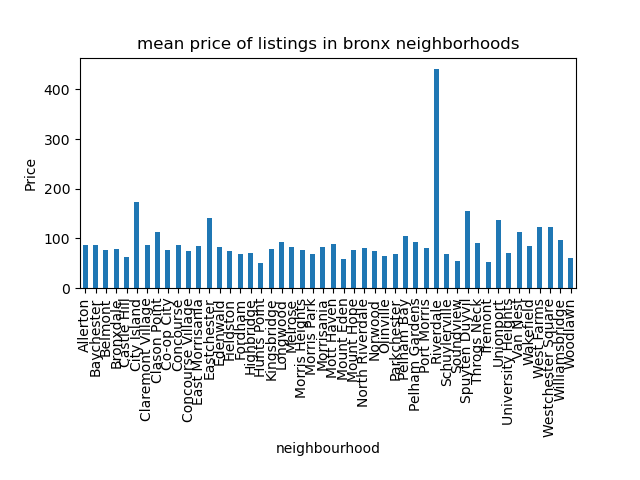
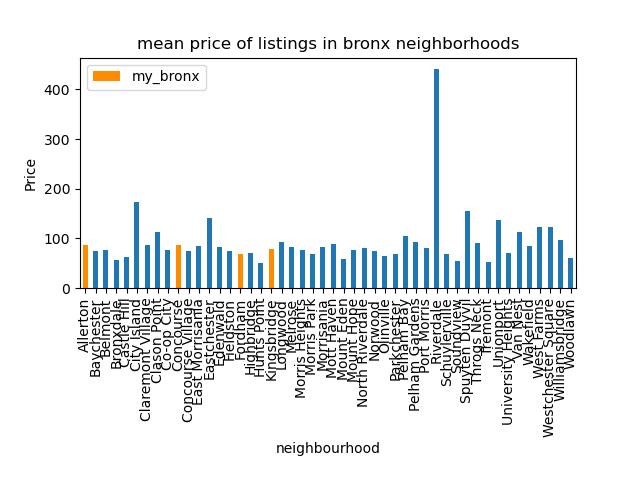
updates; bar colors and printing price stats for rooms

diff --git a/ha_8.py b/ha_8.py
@@ -13,13 +13,11 @@ airbnb.drop(['host_id','host_name'], axis=1, inplace=True)
 #Group by borough
 boro_group = airbnb.groupby(['neighbourhood_group'])
 bronx = airbnb[airbnb['neighbourhood_group'] == 'Bronx']
+bronx_neighborhoods = bronx.groupby(['neighbourhood'])
 
-#group our neighborhoods
+#Group by our neighborhoods
 my_bronx = bronx[bronx['neighbourhood'].isin(['Fordham', 'Allerton', 'Kingsbridge', 'Concourse'])]
-kingsbridge = airbnb[airbnb['neighbourhood'] == 'Kingsbridge']
-allerton = airbnb[airbnb['neighbourhood'] == 'Allerton']
-concourse = airbnb[airbnb['neighbourhood'] == 'Concourse']
-fordham = airbnb[airbnb['neighbourhood'] == 'Fordham']
+mybronx_neighborhoods = my_bronx.groupby(['neighbourhood'])  #In our bronx neighborhoods
 
 
 #PRINTING STATS FOR LISTINGS/PRICE
@@ -57,26 +55,37 @@ plt.gcf().subplots_adjust(bottom=0.3)
 plt.title('mean price of listings in all boroughs')
 fig1 = plt.gcf()
 fig1.savefig('meanPriceBoroughs.png')
-plt.show()
+plt.clf()
 
 #BRONX
-bronx_neighborhoods = bronx.groupby(['neighbourhood'])  #In all Bronx neighborhoods
-bronx_neighborhoods['price'].mean().plot.bar()
+#make my_bronx neighborhoods stand out
+hoods_index = list(bronx['neighbourhood'].unique())
+hoods_index.sort()
+hoods_colors = list()
+for i in hoods_index:
+    if ((i == "Allerton") or (i == "Kingsbridge") or (i == "Concourse") or (i == "Fordham")):
+        hoods_colors.append("darkorange")
+    else:
+        hoods_colors.append("#1f77b4")
+hood = ["my_bronx"] #legend
+
+bronx_neighborhoods['price'].mean().plot.bar(color = hoods_colors)
 plt.ylabel('Price')
 plt.gcf().subplots_adjust(bottom=0.4)
 plt.title('mean price of listings in bronx neighborhoods')
+plt.legend(hood, loc=2) #legend
 fig1 = plt.gcf()
 fig1.savefig('meanPriceBronxNeighborhoods.png')
+plt.clf()
 
 #MY_BRONX
-mybronx_neighborhoods = my_bronx.groupby(['neighbourhood'])  #In our bronx neighborhoods
 mybronx_neighborhoods['price'].mean().plot.bar()
 plt.ylabel('Price')
 plt.gcf().subplots_adjust(bottom=0.3)
 plt.title('mean price of listings in my_bronx neighborhoods')
 fig1 = plt.gcf()
 fig1.savefig('meanPriceMyBronxNeighborhoods.png')
-
+plt.clf()
 
 
 
@@ -88,80 +97,28 @@ fig1.savefig('meanPriceMyBronxNeighborhoods.png')
 
 
 
+#PRICES FOR EACH ROOM TYPE PRINT
+print("\nprice stats for each room_type in bronx:")
+bstats = bronx.groupby('room_type').describe()
+print(bstats['price'])
+
+print("\nprice stats for each room_type in my_bronx:")
+mbstats = my_bronx.groupby('room_type').describe()
+print(mbstats['price'])
 
 
+#bs = bstats['price'].plot.box()
+#plt.title("prices of listings in bronx")
+#plt.show()
+
+#mbs = mbstats['price'].plot.box()
+#plt.title("prices of listings in my_bronx")
+#plt.show()
 
 
-#availability_365 stats
-#AIRBNB
-print("\navailability_365 stats in all boroughs:")
-print("Mean: ", airbnb['availability_365'].mean())
-print("Max: ", airbnb['availability_365'].max())
-print("Min: ", airbnb['availability_365'].min())
-#BRONX
-print("\navailability_365 stats in all Bronx neighborhoods:")
-print("Mean: ", bronx['availability_365'].mean())
-print("Max: ", bronx['availability_365'].max())
-print("Min: ", bronx['availability_365'].min())
-#MY_BRONX
-print("\navailability_365 stats in our Bronx neighborhoods:")
-print("Mean: ", my_bronx['availability_365'].mean())
-print("Max: ", my_bronx['availability_365'].max())
-print("Min: ", my_bronx['availability_365'].min())
+#ROOM TYPE PIE CHARTS
 
-
-
-
-
-#############PIE CHARTS################################
-
-#ROOM TYPE
 labels = 'Private Room', 'Entire home/apt', 'Shared Room'
-krooms = kingsbridge['room_type'].value_counts()
-arooms = allerton['room_type'].value_counts()
-frooms = fordham['room_type'].value_counts()
-crooms = concourse['room_type'].value_counts()
-
-fracsK = krooms.unique()
-fracsA = arooms.unique()[0], arooms.unique()[1], 0
-fracsC = crooms.unique()[0], crooms.unique()[1], 0
-fracsF = frooms.unique()
-
-# Make figure and axes
-fig, axs = plt.subplots(2, 2)
-
-# A standard pie plot
-axs[0, 0].pie(fracsK, labels=labels, autopct='%1.1f%%', shadow=True)
-axs[0, 1].pie(fracsA, labels=labels, autopct='%1.1f%%', shadow=True)
-axs[1, 0].pie(fracsC, labels=labels, autopct='%1.1f%%', shadow=True)
-axs[1, 1].pie(fracsF, labels=labels, autopct='%1.1f%%', shadow=True)
-
-fig1 = plt.gcf()
-fig1.savefig('roomTypes.png')
-
-#MYBRONX
-mbrooms = my_bronx['room_type'].value_counts()
-explode = (0, 0, 0.1)
-
-fig1, ax1 = plt.subplots()
-ax1.pie(mbrooms, explode=explode, labels=labels, autopct='%1.1f%%',
-        shadow=True, startangle=90)
-ax1.axis('equal')  # Equal aspect ratio ensures that pie is drawn as a circle.
-plt.title('room_type of listings in my_bronx')
-fig1 = plt.gcf()
-fig1.savefig('roomTypesMB.png')
-
-#BRONX
-brooms = bronx['room_type'].value_counts()
-explode = (0, 0, 0.1)
-
-fig1, ax1 = plt.subplots()
-ax1.pie(brooms, explode=explode, labels=labels, autopct='%1.1f%%',
-        shadow=True, startangle=90)
-ax1.axis('equal')  # Equal aspect ratio ensures that pie is drawn as a circle.
-plt.title('room_type of listings in bronx')
-fig1 = plt.gcf()
-fig1.savefig('roomTypesB.png')
 
 #AIRBNB
 rooms = airbnb['room_type'].value_counts()
@@ -174,29 +131,30 @@ ax1.axis('equal')  # Equal aspect ratio ensures that pie is drawn as a circle.
 plt.title('room_type of listings in airbnb')
 fig1 = plt.gcf()
 fig1.savefig('roomTypesA.png')
+plt.clf()
 
-#########################################################
+#BRONX
+brooms = bronx['room_type'].value_counts()
+explode = (0, 0, 0.1)
 
-
-
-#Somethings wrong with this one; can ask questions!!!
-#number of reviews in each neighborhood in Bronx
-bronx_neighborhoods = bronx.groupby(['neighbourhood']) #In all Bronx neighborhoods
-bronx_neighborhoods['number_of_reviews'].plot.bar()
-plt.ylabel('Number of Reviews')
-plt.gcf().subplots_adjust(bottom=0.5)
-fig2 = plt.gcf()
-fig2.savefig('numReviewsBronxNeighborhoods.png')
-#plt.clf()
-
-mybronx_neighborhoods = my_bronx.groupby(['neighbourhood'])  #In our bronx neighborhoods
-mybronx_neighborhoods['number_of_reviews'].mean().plot.bar()
-plt.ylabel('Number of Reviews')
+fig1, ax1 = plt.subplots()
+ax1.pie(brooms, explode=explode, labels=labels, autopct='%1.1f%%',
+        shadow=True, startangle=90)
+ax1.axis('equal')  # Equal aspect ratio ensures that pie is drawn as a circle.
+plt.title('room_type of listings in bronx')
 fig1 = plt.gcf()
-fig1.savefig('numReviewsMyBronxNeighborhoods.png')
+fig1.savefig('roomTypesB.png')
+plt.clf()
 
+#MY_BRONX
+mbrooms = my_bronx['room_type'].value_counts()
+explode = (0, 0, 0.1)
 
-#printing number of reviews in each neighborhood in Bronx
-my_bronx_stats = my_bronx.describe()
-#print("Statistics for number_of_reviews in our bronx neighborhoods:\n", my_bronx_stats['number_of_reviews'])
-#print("Statistics for availability_365 in our bronx neighborhoods:\n", my_bronx_stats['availability_365'])
+fig1, ax1 = plt.subplots()
+ax1.pie(mbrooms, explode=explode, labels=labels, autopct='%1.1f%%',
+        shadow=True, startangle=90)
+ax1.axis('equal')  # Equal aspect ratio ensures that pie is drawn as a circle.
+plt.title('room_type of listings in my_bronx')
+fig1 = plt.gcf()
+fig1.savefig('roomTypesMB.png')
+plt.clf()
